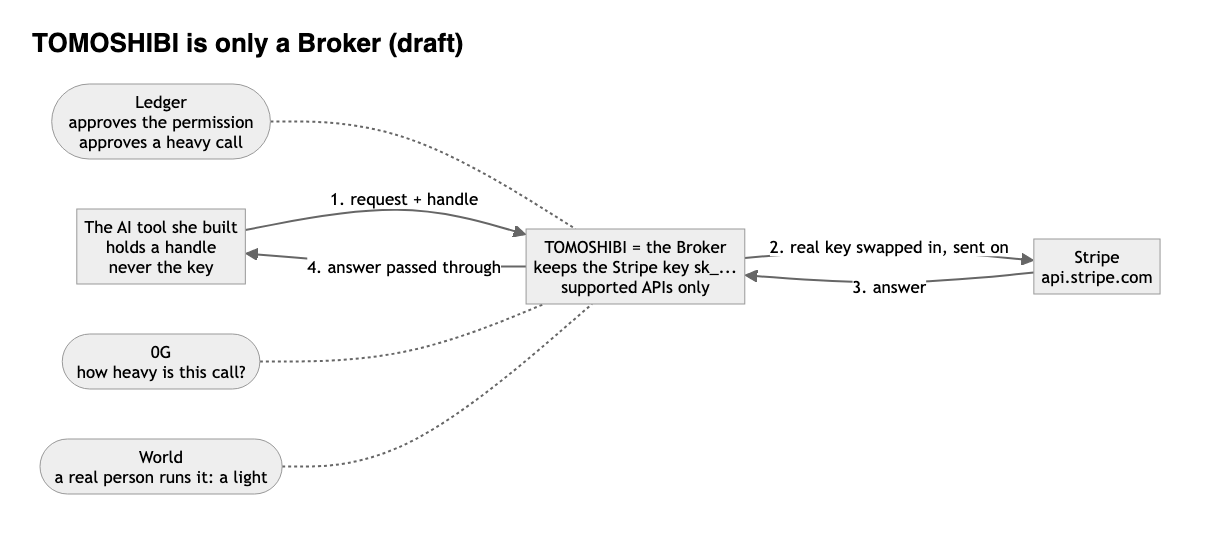
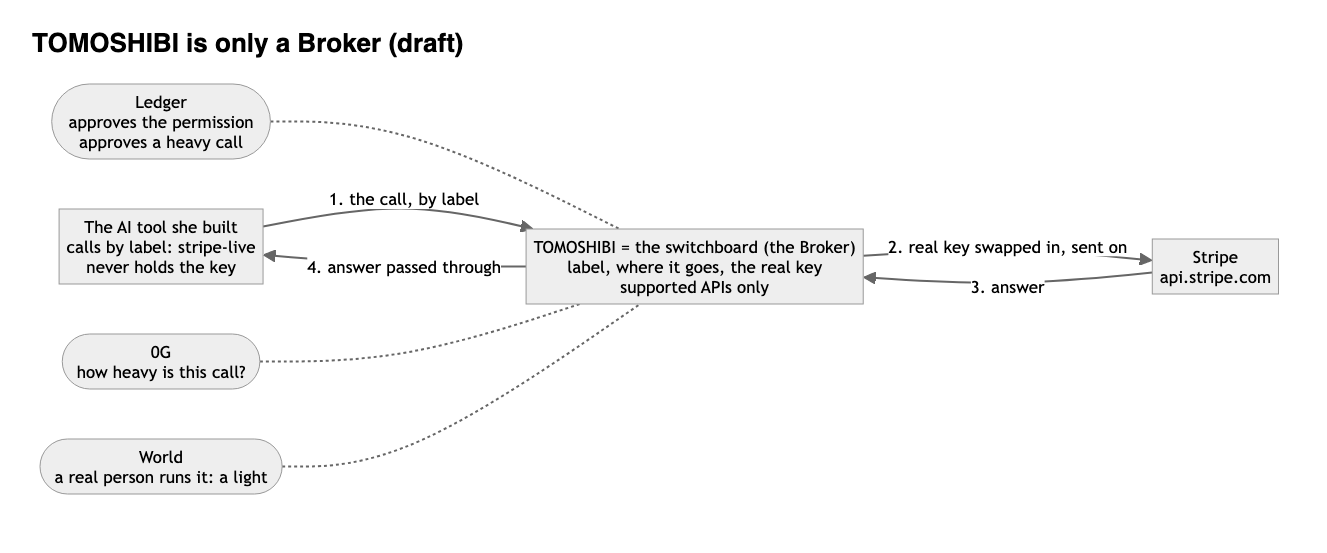
docs/NEW-DIRECTION.md: use the README's words (switchboard, label, row)

diff --git a/docs/NEW-DIRECTION.md b/docs/NEW-DIRECTION.md
@@ -2,15 +2,17 @@
 
 Agreed between Minta and Kou tonight. The two figures below are Minta's drafts. Kou redraws them.
 `docs/STRUCTURE.md` describes the structure as it was before this; the Broker's order of steps in it is still right.
+The words follow the README on main (299d4f8): *switchboard*, *label*, *table*, *row*, *puts the call through*.
 
 ## What changed
 
 1. **The person.** A builder who has the skill and is tired of managing API keys. Not a shop owner without the skill.
-2. **TOMOSHIBI is a Broker, and nothing else.** A gatekeeper for APIs, approved on a hardware wallet. It does not lend anything.
+2. **TOMOSHIBI is a Broker, and nothing else.** The switchboard between her tools and her keys, approved on a hardware
+   wallet. It does not lend anything.
 3. **Supported APIs only.** There is a list. For an API on the list, TOMOSHIBI knows where it goes and how the key is put in.
    Today one entry works: Stripe.
 4. **It keeps the key, swaps it in, and passes the request and the answer through**, the way NAT swaps an address.
-   The tool holds a handle and never the key.
+   The tool holds a label (`stripe-live`) and never the key.
 5. **The permission she approves has three things**: the key, where it goes, until when. There is no "can" line on the page.
 6. **Lights.** The builder lights the tool they built and really run through TOMOSHIBI. World proves a person, the Broker's
    trail proves the use. Lights add up to the builder's name, and other people choose tools by that.
@@ -31,10 +33,10 @@ Agreed between Minta and Kou tonight. The two figures below are Minta's drafts. 
 
 ```mermaid
 flowchart LR
-  T["The AI tool she built<br/>holds a handle<br/>never the key"]
-  B["TOMOSHIBI = the Broker<br/>keeps the Stripe key sk_...<br/>supported APIs only"]
+  T["The AI tool she built<br/>calls by label: stripe-live<br/>never holds the key"]
+  B["TOMOSHIBI = the switchboard (the Broker)<br/>label, where it goes, the real key<br/>supported APIs only"]
   S["Stripe<br/>api.stripe.com"]
-  T -- "1. request + handle" --> B
+  T -- "1. the call, by label" --> B
   B -- "2. real key swapped in, sent on" --> S
   S -- "3. answer" --> B
   B -- "4. answer passed through" --> T
@@ -65,9 +67,9 @@ sequenceDiagram
   P->>G: parks the key (API = Stripe, key sk_..., where it goes, until when)
   G->>L: the same lines
   P->>L: holds the button
-  G-->>AI: a handle, not the key
+  G-->>AI: a label, not the key
   Note over AI,B: From here the tool runs
-  AI->>B: request + handle
+  AI->>B: the call, by label
   B->>Z: how heavy is this?
   alt routine
     B->>S: real key swapped in, sent on
@@ -93,9 +95,9 @@ sequenceDiagram
 |---|---|---|
 | 1 | The chat tab | A builder talking to the AI that helps her build. After she sends the link, the AI reads it, finds Stripe on the list and decides to go through TOMOSHIBI. |
 | 2 | A page an AI can read | `web/llms.txt`: the supported APIs and how to connect. The link in the chat is real. |
-| 3 | Parking the key | One screen: pick an API from the list (only Stripe works), the key, where it goes (fixed by the list), until when. No "can" row. |
-| 4 | After the approval | A screen that hands over the handle, with the call the tool makes. |
-| 5 | Home | Shows a call going through: the tool, TOMOSHIBI, Stripe, and the answer coming back. |
+| 3 | Adding a row | One screen: pick an API from the list (only Stripe works), the key, where it goes (fixed by the list), until when. No "can" row. Only the Ledger can add the row. |
+| 4 | After the approval | A screen that gives the tool its label, with the call the tool makes. |
+| 5 | Home | The table (label, where it goes, until when, the key hidden) and a call being put through: the tool, TOMOSHIBI, Stripe, and the answer coming back. |
 | 6 | Lights | "Light the tool you built", the lights you have, and the sample where someone chooses by them. |
 | 7 | Name on the page | Priya as a builder. |
 | 8 | 0G Storage | The tool seals each finished thread (`POST /seal`) and the trail shows it. |
@@ -104,7 +106,7 @@ sequenceDiagram
 ## Not tonight
 
 - A drop-in proxy (change the base URL and the key, nothing else). Today the tool calls `POST /use`. This needs the Broker to
-  keep the permission behind a handle.
+  keep the permit behind the label.
 - A real call to Stripe. It is still the stub (`EXECUTE=0`).
 - Lights counted per builder. Today they are counted per tool version; the page shows a sample.
 
